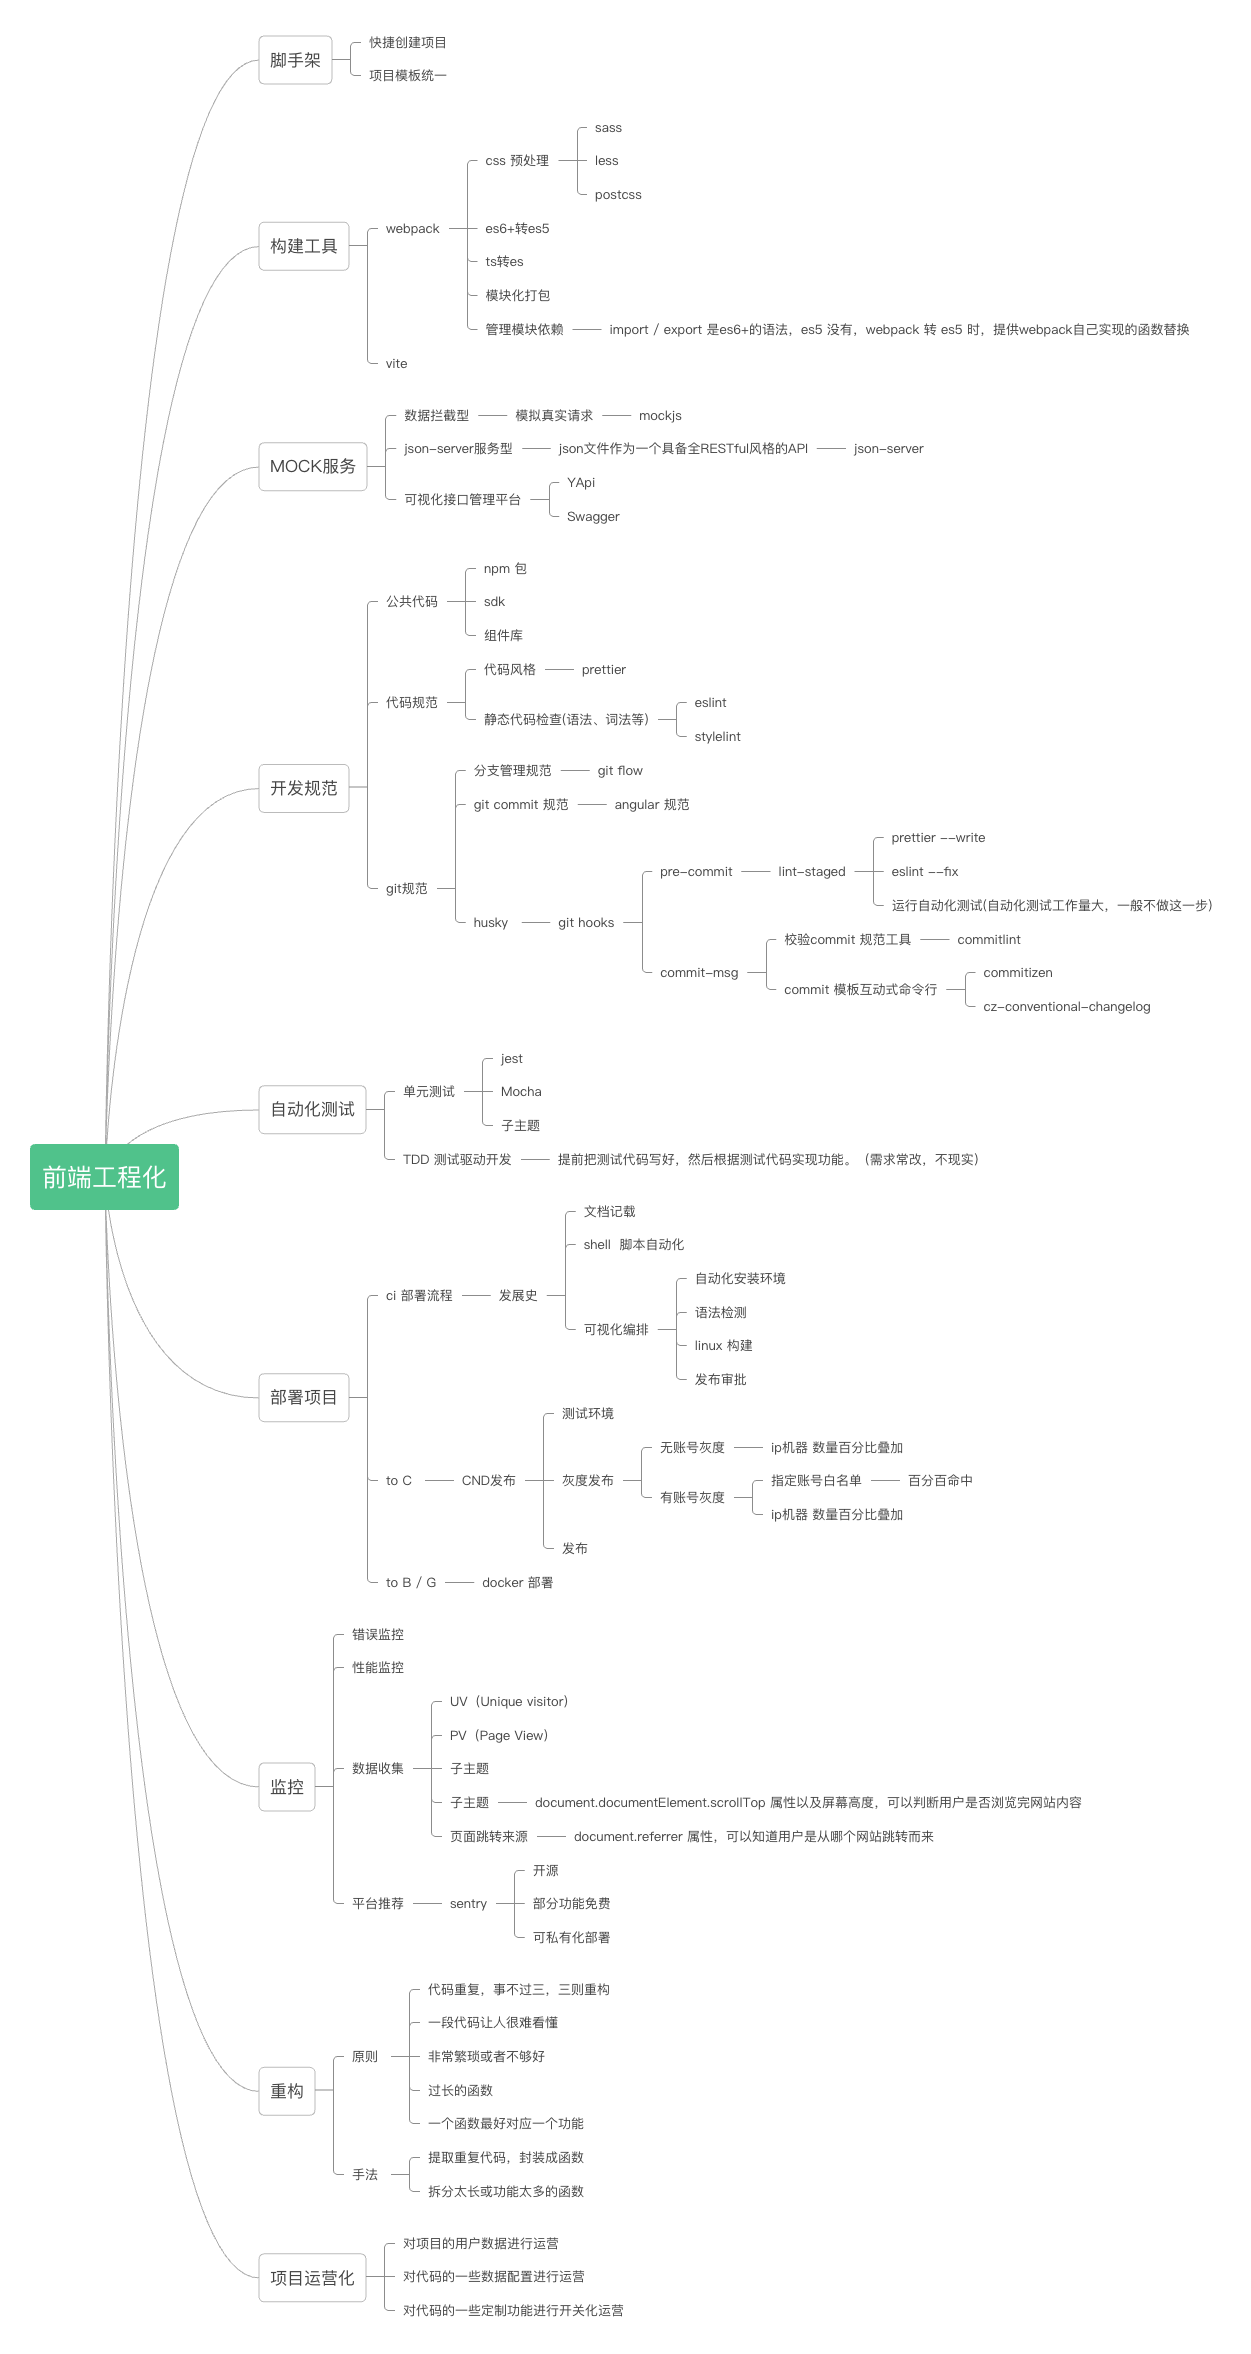
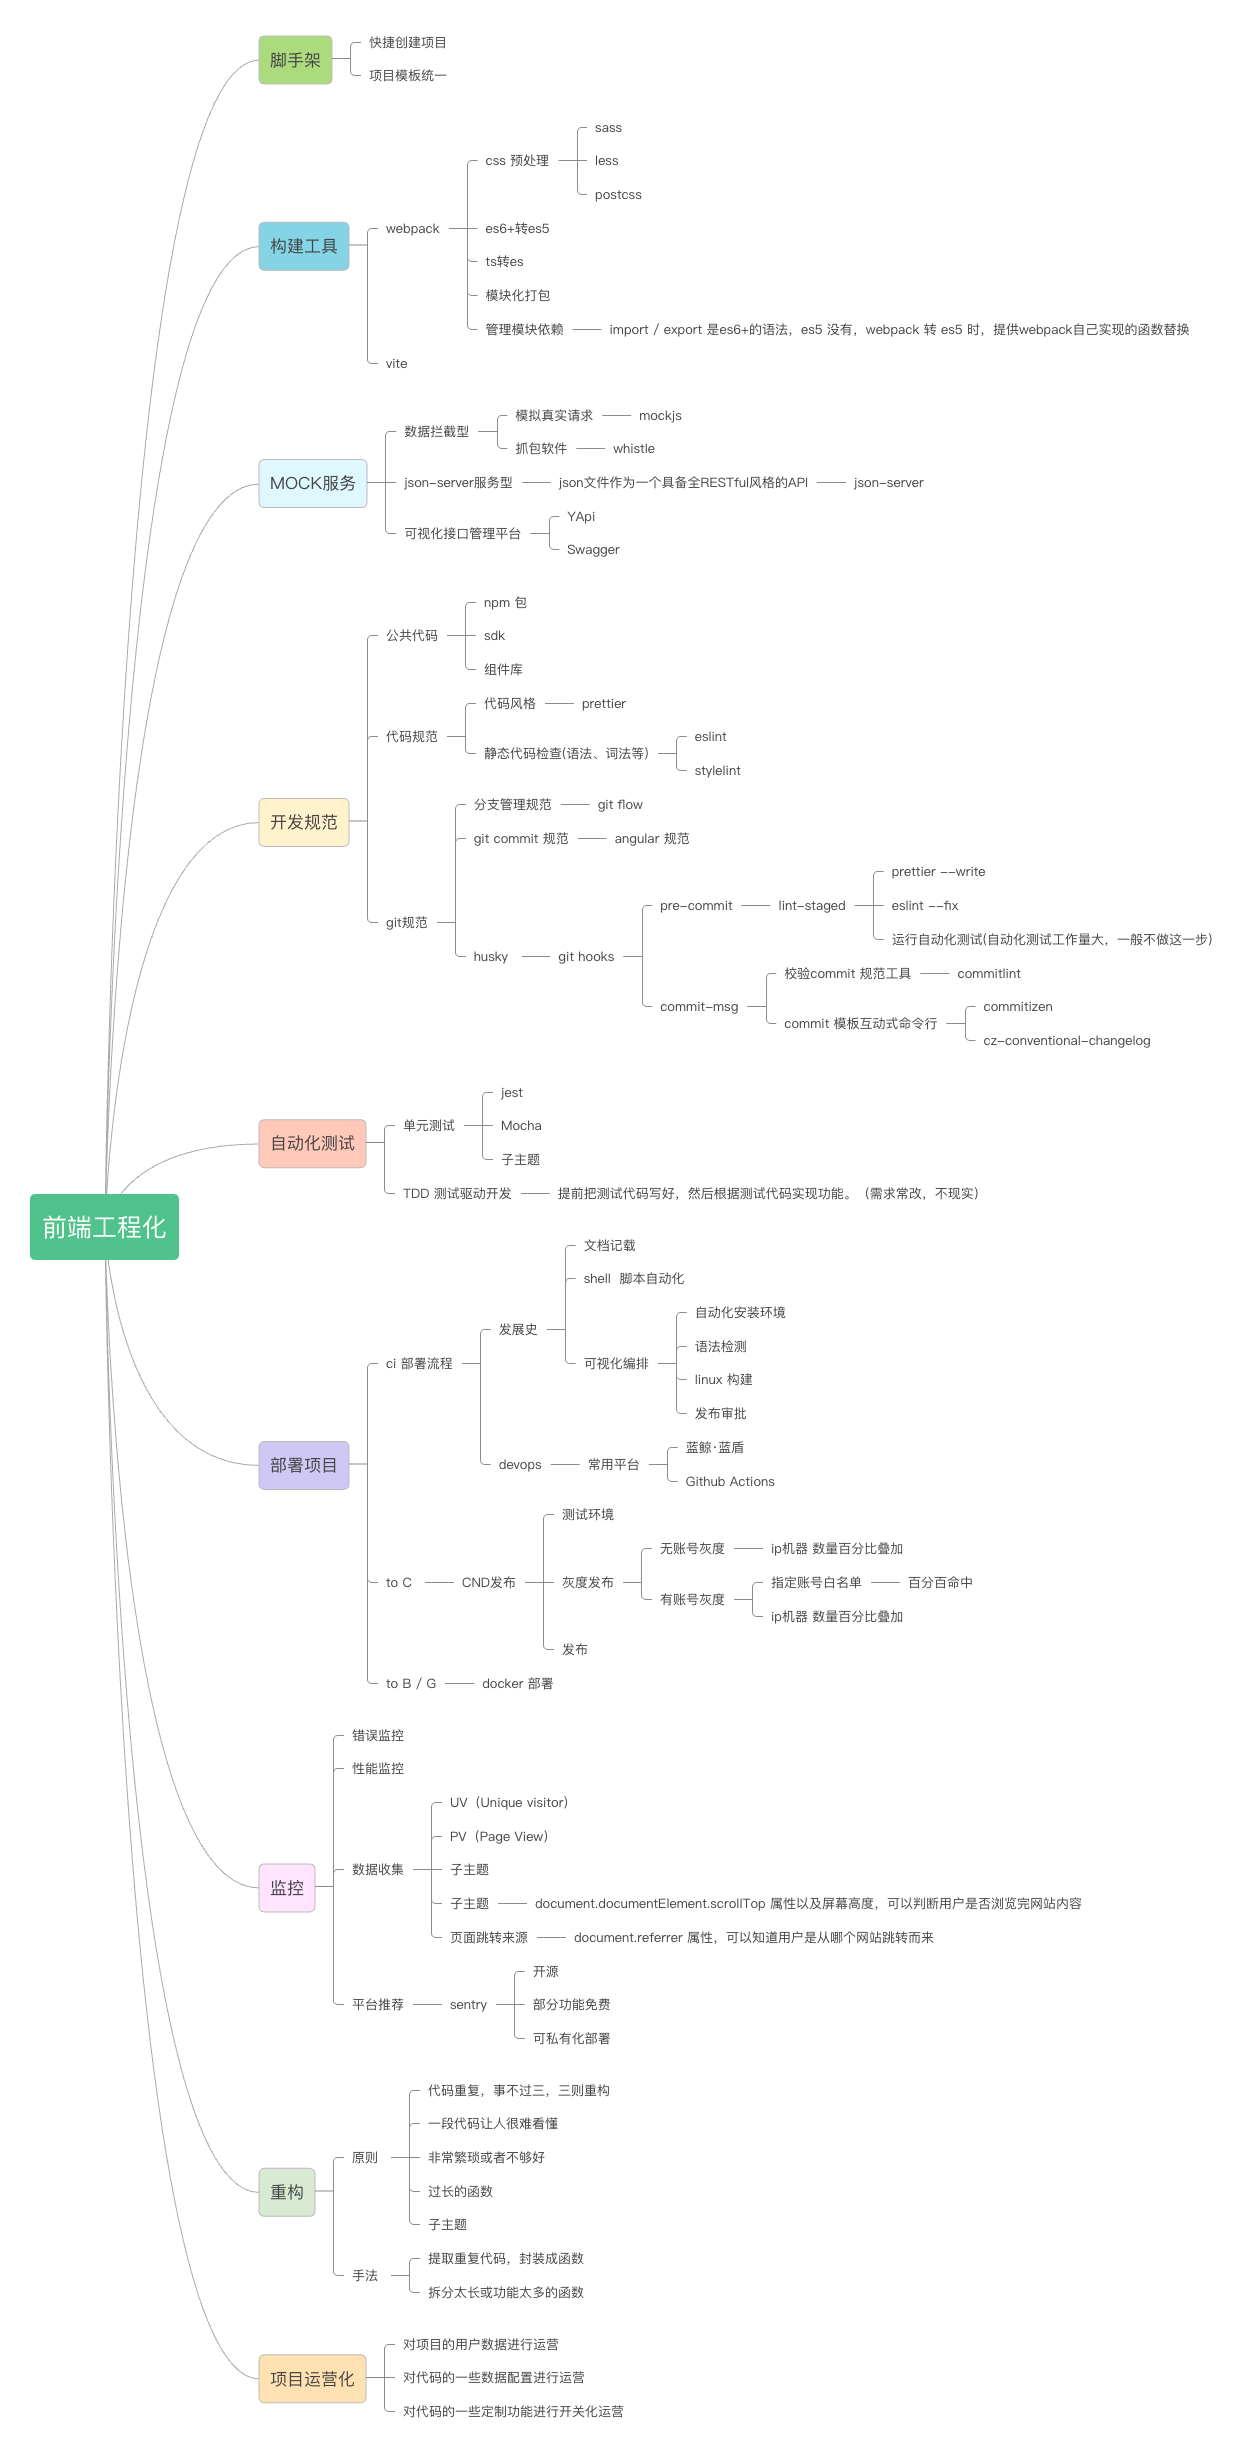
feat: update

diff --git a/src/front/engineering/engineering.md b/src/front/engineering/engineering.md
@@ -360,3 +360,53 @@ conventional-changelog
 
 ### 自动生成变更日志
 release-it  
+
+### 前端MOCK
+
+[whistle 文档](http://wproxy.org/whistle/)  
+
+###### whistle常用配置
+- disable 对某些域名不拦截
+```bash
+## disable,对某些域名不拦截 一般放在 Default
+/oa.com/ disable://intercept
+/*.oa.com/ disable://intercept
+/*.woa.com/ disable://intercept
+/google.com/ disable://intercept
+/bmcx.com/ disable://intercept
+/github/ disable://intercept
+```
+![An image](./images/engineering4.png)
+- 代理本地开发文件  
+  便于正式环境抓包到本地开发调试
+![an images](./images/engineering7.png)
+- mock api
+  **whistle 不拦截 120.0.0.1，需要配置域名才能拦截**
+  ```bash
+  ## 配置一个域名指向本地的host
+  127.0.0.1:8300 qqqq.com
+  ```
+  - 本地文件写数据 (推荐 方便管理不同项目的mock 数据)
+  ```bash
+  ## 本地创建 /Users/abc/Desktop/userinfo.json 文件，匹配到 /tbaas/select?action=BindProject 时 将在响应 body 里面 返回 json 数据
+  /\/tbaas\/select\?action=BindProject/ resBody:///Users/abc/Desktop/userinfo.json resType://application/json resCharset://utf8 statusCode://200
+  ```
+  - Values 写数据 (不推荐，values 多了不好管理)
+  ```bash
+  ## 在 whistle 中创建 userinfo 为名的 value 进行 mock 数据
+  /\/tbaas\/overview\?action=DescribeEventSummary/ resBody://{userinfo} resType://application/json resCharset://utf8 statusCode://200
+  ```
+  ![an images](./images/engineering5.png)
+  - 在 Rules 中写数据(用的少，会增加代理路由文件的复杂度)
+  ![an images](./images/engineering6.png)
+- 修改头信息
+
+
+
+###### mockjs
+[mockjs 中文文档](http://mock.pe666.cn/)  
+[fakerjs 文档](https://fakerjs.dev/guide/)  
+
+mockjs 和 fakerjs 可以快捷生成各种类型的数据  
+
+起一个node server 真实模拟 请求和响应  
